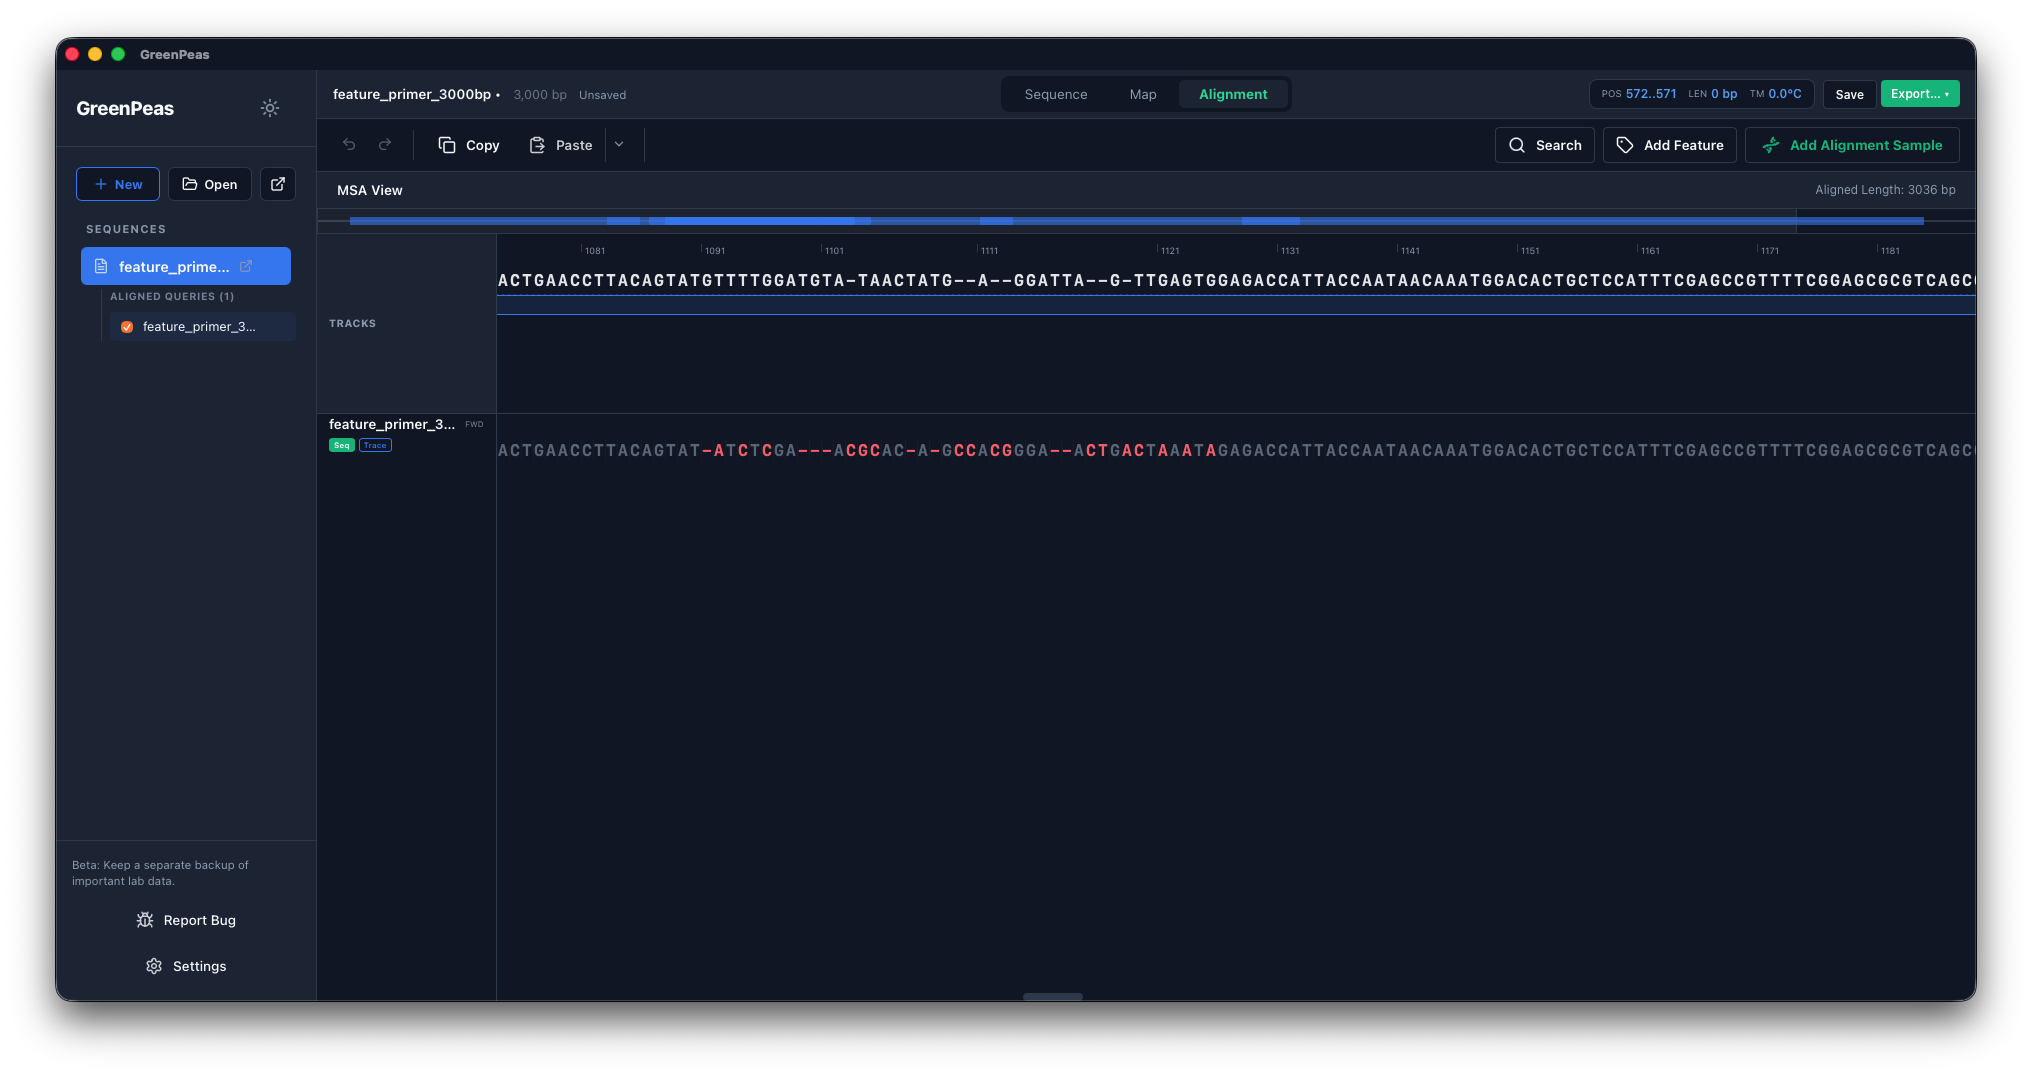
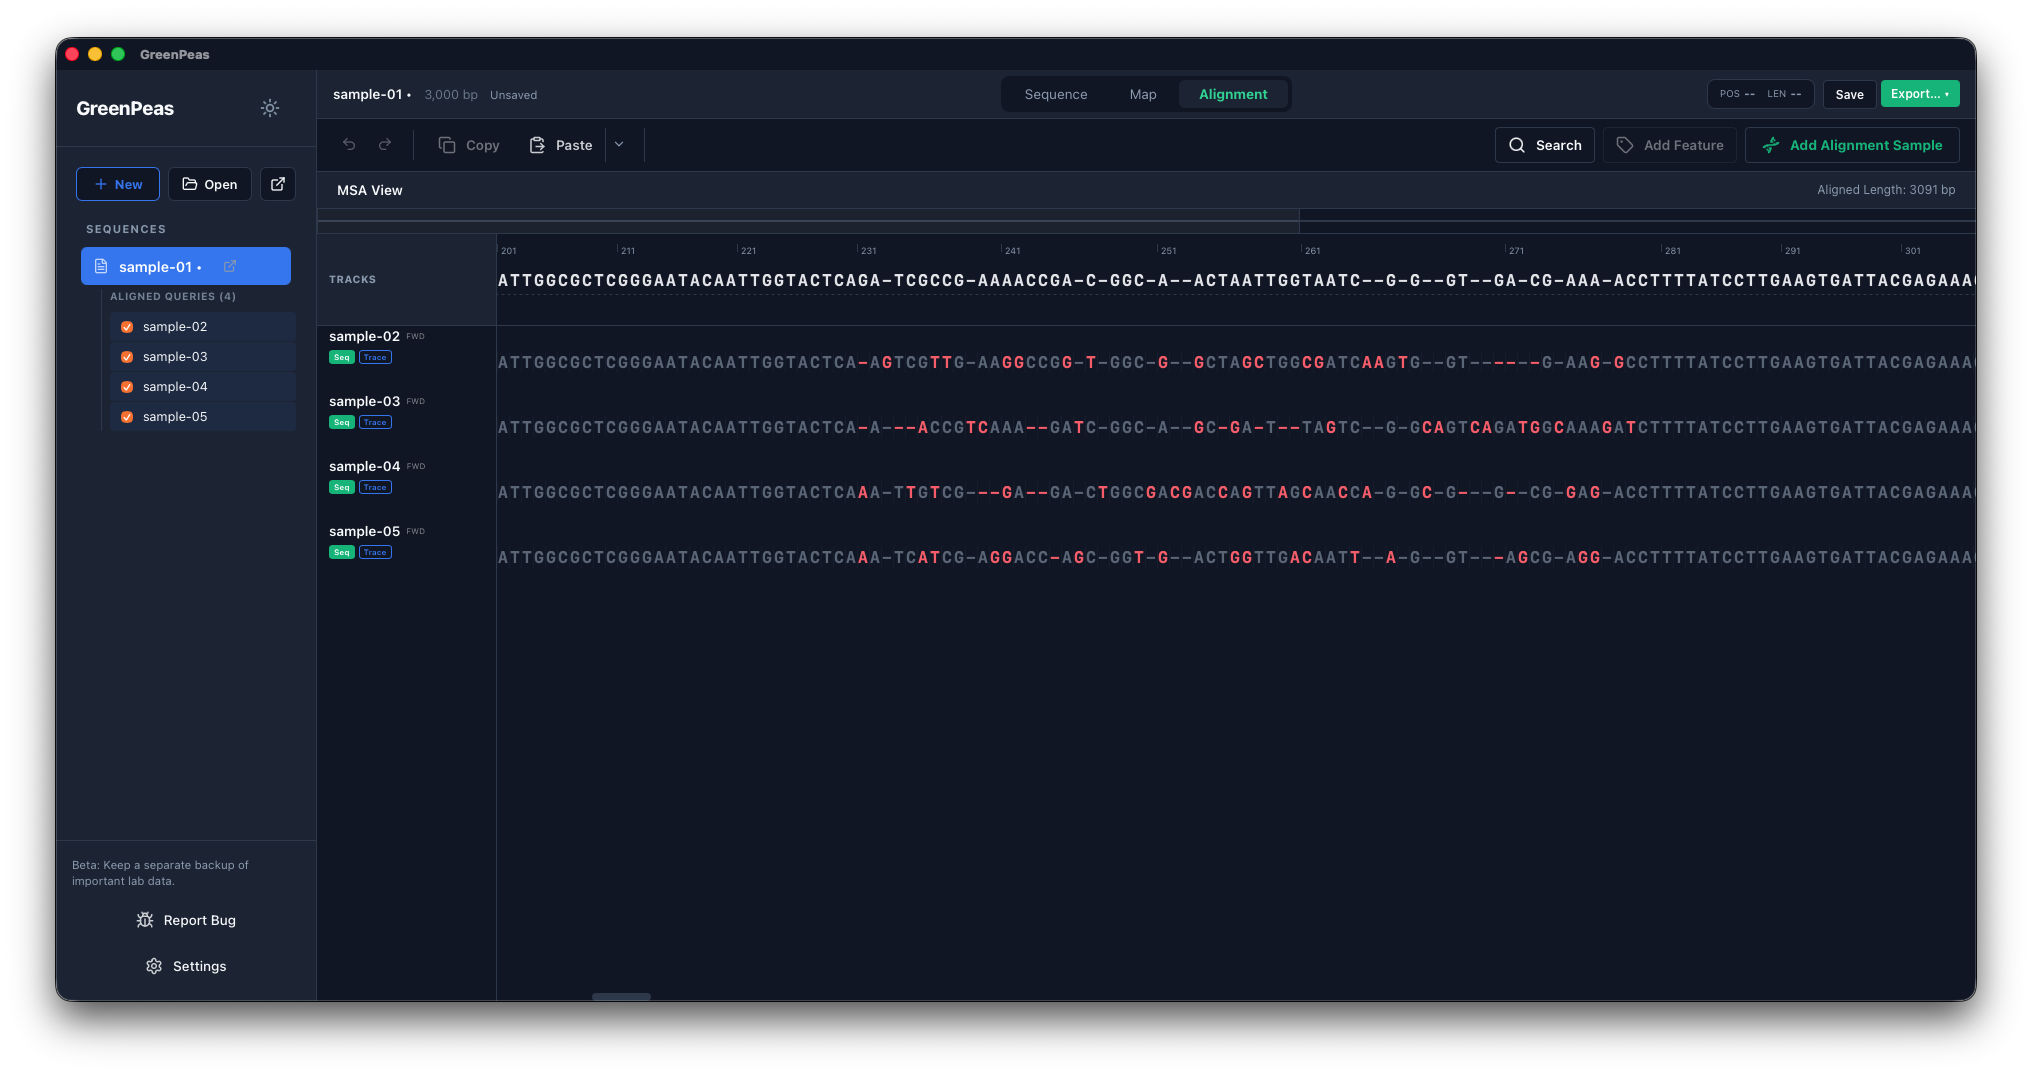
Show five-sample alignment and ligation screenshots

diff --git a/README.md b/README.md
@@ -21,9 +21,15 @@ Click an image to view it at full size.
 | --- | --- |
 | [![Circular map with features, primers, and restriction sites](docs/screenshots/circlemap.png)](docs/screenshots/circlemap.png) | [![Linear map with features, primers, and restriction sites](docs/screenshots/linearmap.png)](docs/screenshots/linearmap.png) |
 
-**Sequence alignment**
+**Sequence alignment · five samples**
 
-[![Aligned sequences with differences highlighted](docs/screenshots/alignment.png)](docs/screenshots/alignment.png)
+[![Five aligned sequences with differences highlighted](docs/screenshots/alignment.png)](docs/screenshots/alignment.png)
+
+The synthetic sequences shown here are available in [test-data/alignment-samples](test-data/alignment-samples).
+
+**Smart Ligation preview**
+
+[![Smart Ligation preview showing compatible junctions](docs/screenshots/smart-ligation.png)](docs/screenshots/smart-ligation.png)
 
 ## 🧬 About the Name & Logo
 
